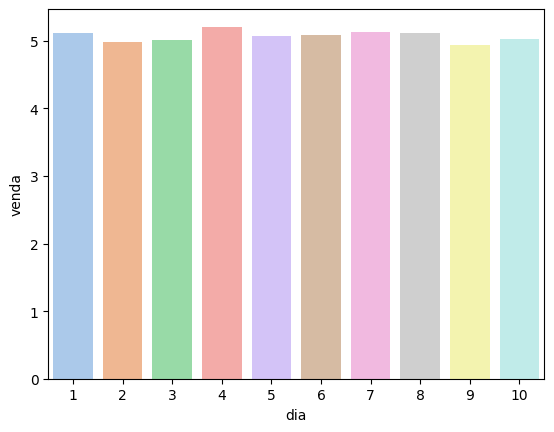
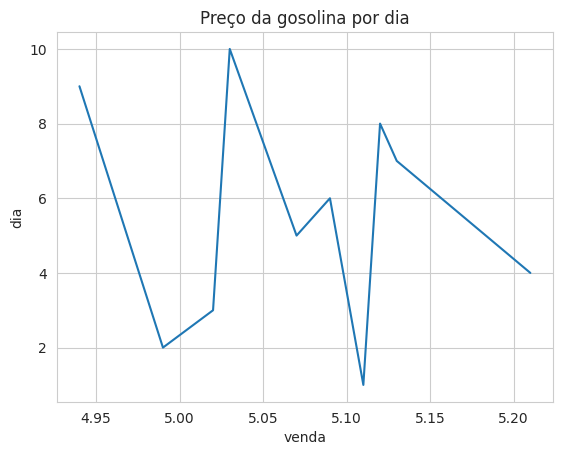
atulaização usando branch

diff --git a/gasolina.py b/gasolina.py
@@ -3,4 +3,8 @@ import seaborn as sns
 
 data = pd.read_csv('gasolina.csv')
 
-grafico = sns.barplot(data=data,x='dia',y='venda', palette='pastel')
+with sns.axes_style('whitegrid'):
+
+  grafico = sns.lineplot(data= data , x='venda', y='dia')
+  grafico.set(title='Preço da gosolina por dia')
+  
